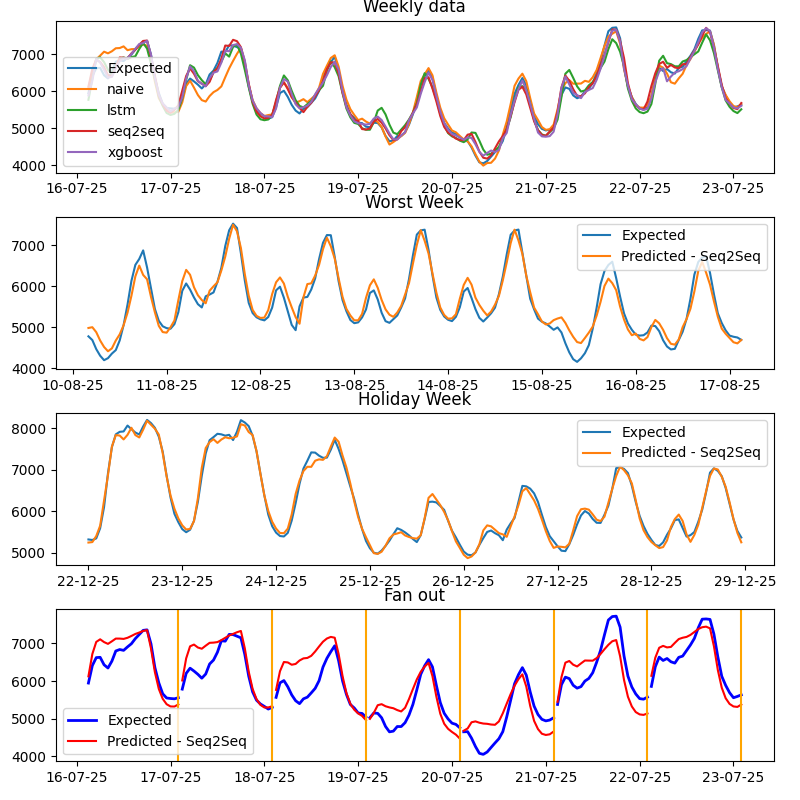
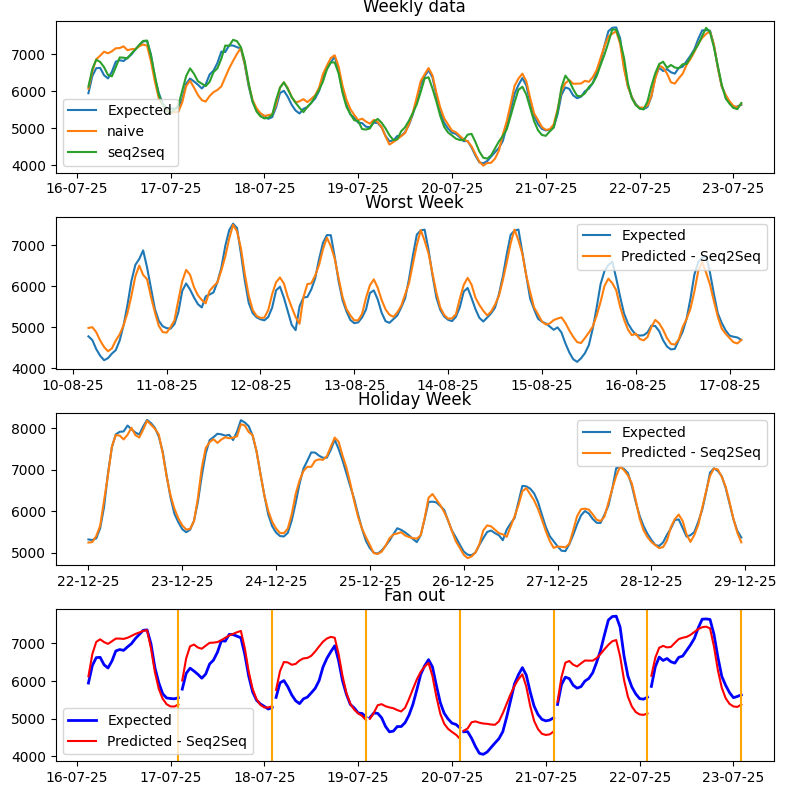
polish README

diff --git a/src/evaluate.py b/src/evaluate.py
@@ -214,11 +214,11 @@ def predict(configs):
         predict_dict['seq2seq']['dates'], 
         predict_dict['seq2seq']['y_test'], 
         predict_dict['seq2seq']['y_pred'], 
-        predict_dict['naive']['y_test'],
+        predict_dict['naive']['y_pred'],
         base_config['hyperparams']['forecast_horizon']
         )
 
-    y_preds = {model_name:model_dict['y_pred'] for model_name, model_dict in predict_dict.items()}
+    y_preds = {model_name:model_dict['y_pred'] for model_name, model_dict in predict_dict.items() if model_name not in ('lstm', 'xgboost')}
     plot_week_data(
         predict_dict['seq2seq']['dates'], 
         y_preds,

diff --git a/README.md b/README.md
@@ -1,6 +1,6 @@
 # Energy Demand Forecasting
 
-This project aims to predict next hour energy demand for a specific country, Romania. As models I used LSTM and a baselines naive seasonal forecasting model. The dataset was fetched from https://www.entsoe.eu/data/power-stats/ using a custom data_fetcher which grabbed hourly data from 2019 to 2025. The dataset is enhanced with meteo data for every hour, for the biggest city in Romania, Bucharest, which can be a good proxy for energy consumption based on the temperature conditions.
+This project performs a multi-step forecast of Romania's energy demand, predicting the next 24 hours of load. The primary model is a Seq2Seq network. The goal of the project was to put the LSTM architecture into practice. To get a fair comparison, I added several baselines: a standalone LSTM, an XGBoost regressor, and a naive seasonal model. The dataset was fetched from https://www.entsoe.eu/data/power-stats/ with a custom `data_fetcher` that pulls hourly data from 2019 to 2025. It is enhanced with hourly weather data for Bucharest, Romania's largest city, whose temperature is a good proxy for nationwide energy consumption.
 
 ### Table of Contents
 
@@ -15,4 +15,179 @@ This project aims to predict next hour energy demand for a specific country, Rom
 
 ### Introduction
 
-Using pytorch LSTM model 
+The task is a multi-step forecast of the next 24 hours of Romania's energy demand, trained on the 2019–2025 interval from ENTSO-E. The exploratory data analysis showed temperature to be a strong external predictor of consumption, so it was added as a feature. The sequence models (Seq2Seq and LSTM) use a lookback of 168h (one week) and a forecast horizon of 24h. To evaluate them fairly, I established baselines with a naive model and a tree model; the naive baseline uses a weekly seasonal lag (m = 168h).
+
+### Features
+
+Four model families are used: LSTM, Seq2Seq with teacher forcing, XGBoost, and a naive seasonal baseline. Each model is configured through its own YAML file (`lstm.yaml`, `seq2seq.yaml`, `xgboost.yaml`); change the hyperparameters there. Reproducible seeds are set to keep runs deterministic.
+
+For the sequence models, the focus of this project, I added early stopping, a cosine learning-rate schedule, and gradient clipping for training stability. Both models also produce `learning_curve` plots under the `outputs` directory, with the best saved checkpoint marked by a red line:
+
+![seq2seq](./outputs/learning_curve_seq2seq_24h.png)
+
+Evaluation runs across all trained models at once, producing comparison plots that are also saved under the `outputs` directory.
+
+Unit tests covering data processing, baseline model construction, and other small, testable functions live under `tests/`. They run on every push and pull request via the workflow in `.github/workflows`.
+
+The original power-statistics data had only two meaningful columns, `DateUTC` and `Value`. Guided by the EDA, `data_processing` derives the following features:
+
+
+| #   | Column  | Non-Null Count      | Dtype  
+|---------|--------|--------------|----------------|
+| 0 | Value  | 61277 non-null |     float64      | 
+| 1 | temperature_2m  | 61277 non-null |     float64      | 
+| 2 | hour_sin  | 61277 non-null |     float64      | 
+| 3 | hour_cos  | 61277 non-null |     float64      | 
+| 4 | day_sin  | 61277 non-null |     float64      | 
+| 5 | day_cos  | 61277 non-null |     float64      | 
+| 6 | month_sin  | 61277 non-null |     float64      | 
+| 7 | month_cos  | 61277 non-null |     float64      | 
+| 8 | is_weekend  | 61277 non-null |     int64      | 
+| 9 | is_holiday  | 61277 non-null |     int64      |
+
+
+
+### Project Structure
+
+The project is organized as follows:
+```
+.
+├── CLAUDE.md
+├── README.md
+├── config
+│   ├── base.yaml
+│   ├── lstm.yaml
+│   ├── seq2seq.yaml
+│   └── xgboost.yaml
+├── data
+│   ├── processed
+│   │   ├── RO_power_statistic.csv
+│   │   └── RO_temperature_statistic.csv
+│   ├── raw
+│   ├── xgboost_X_test.csv
+│   ├── xgboost_segments.joblib
+│   └── xgboost_y_test.csv
+├── models
+│   ├── lstm.pt
+│   ├── scaler.joblib
+│   ├── seq2seq.pt
+│   ├── target_scaler.joblib
+│   ├── test_data.joblib
+│   ├── xgboost.joblib
+│   └── xgboost_test_data.joblib
+├── notebooks
+│   └── 01_Exploratory_Data_Analysis.ipynb
+├── outputs
+│   ├── evaluation_overall.png
+│   ├── evaluation_overall_1h.png
+│   ├── evaluation_overall_24h.png
+│   ├── evaluation_overall_lstm.png
+│   ├── evaluation_weekly.png
+│   ├── evaluation_weekly_1h.png
+│   ├── evaluation_weekly_24h.png
+│   ├── evaluation_weekly_lstm.png
+│   ├── learning_curve_1h.png
+│   ├── learning_curve_lstm_24h.png
+│   └── learning_curve_seq2seq_24h.png
+├── requirements.txt
+├── src
+│   ├── __init__.py
+│   ├── baselines.py
+│   ├── data_fetcher.py
+│   ├── data_processing.py
+│   ├── evaluate.py
+│   ├── model.py
+│   ├── seq2seq.py
+│   ├── train.py
+│   └── utils.py
+└── tests
+    ├── __init__.py
+    ├── conftest.py
+    ├── test_baselines.py
+    ├── test_data_processing.py
+    ├── test_evaluate.py
+    └── test_utils.py
+
+```
+
+* `config` contains YAML files for configuring the models and data paths
+* `data` where the raw and processed data is stored
+* `models` where the trained models are stored
+* `notebooks` contains Jupyter Notebook for EDA
+* `src` Python source for data processing, training, and evaluation
+* `tests` unit tests for data processing, baselines, evaluation, and utilities
+* `requirements.txt` required packages for this project
+
+### Getting Started
+
+In order to get this up and running please do the following:
+
+#### Pre-requisites:
+
+* Python 3.10
+* pip
+
+1. Clone the repo
+    `git clone https://github.com/RaresPopa22/EnergyDemandForecasting`
+2. Create and activate a virtual environment (so `python` resolves to the project interpreter)
+    `python3 -m venv .venv && source .venv/bin/activate`
+3. Install Python packages
+    `pip install -r requirements.txt`
+4. Download the datasets
+    `python -m src.data_fetcher --type energy`
+    `python -m src.data_fetcher --type temp`
+
+### Usage
+
+You can either train the models yourself or use the saved models, then evaluate their performance with the scripts in the `src/` directory.
+
+#### Training the Models
+
+In order to train a model, run the `train.py` script with the desired configuration:
+
+* Train Seq2Seq with early stopping and teacher forcing:
+    `python -m src.train --config config/seq2seq.yaml`
+* Train LSTM with early stopping:
+    `python -m src.train --config config/lstm.yaml`
+* Train XGBoost:
+    `python -m src.train --config config/xgboost.yaml`
+
+#### Evaluating the models
+
+After training, you can evaluate and compare the models using the evaluate.py script:
+    `python -m src.evaluate --configs config/lstm.yaml config/seq2seq.yaml config/xgboost.yaml`
+
+This prints regression metrics for each model and generates two plots for the Seq2Seq model: an overall test-set plot (with residual, calibration, and rolling-MAE panels) and a weekly plot (with weekly data, worst week, holiday week, and fan-out panels).
+
+
+### Configuration
+
+This project uses YAML files for configuration, making it easy to manage model parameters and data paths.
+
+* `base.yaml` contains the base configuration, including data paths
+* `seq2seq.yaml`, `lstm.yaml` and `xgboost.yaml` contain model-specific parameters, merged on top of `base.yaml` at load time
+
+### Model Performance
+
+To get an honest estimate of performance, 15% of the data was held out as a test set and never seen during training, so the metrics below reflect behavior on unseen data.
+
+The table below summarizes the performance of the trained models:
+
+| Model   | RMSE error (MWh)  | MAE(MWh)      | MAPE(%) | R2 | Skill score for 1h | Skill score for 24h |
+|---------|--------|--------------|----------------|------|-------------------|------------------|
+|  seq2seq  |  387.949 |    288.804   | 5.169 | 0.842 | 0.511 | 0.386 |
+|  naive  |  584.055 |    390.208   | 6.931 | 0.642 | -0.929 | 0.063 |
+|  lstm  |  410.433 |    290.593   | 5.275 | 0.823 | 0.300 | 0.400 |
+|  xgboost  |  351.216 |    233.067   | 4.295 | 0.870 | 0.372 | 0.425 |
+
+The skill score is defined as `1 − (model RMSE / persistence RMSE)`, where the persistence baseline simply predicts the value from one step earlier (1h) or 24 hours earlier (24h). A score of 1.0 is perfect, 0 ties the persistence baseline, and a negative value is worse than it, which is why the naive model scores negatively at 1h, where naive 1-hour persistence is very hard to beat.
+
+By skill score, Seq2Seq has a slight edge at the 1h horizon, but at the full 24h horizon XGBoost wins. XGBoost is also the clear winner on RMSE, MAE, and MAPE. Both sequence models comfortably beat the naive baseline.
+
+For the Seq2Seq model, the residuals show no obvious pattern, which suggests the model captured the underlying structure of the data. The calibration panel shows a tendency to overestimate. The rolling-MAE panel shows the model staying below the naive seasonal baseline.
+
+![overall](./outputs/evaluation_overall_24h.png)
+
+In the weekly plot, the fan-out panel is the real story: error grows with the forecast horizon, small in the early steps, widest mid-horizon, then recovering somewhat toward the end.
+
+![weekly](./outputs/evaluation_weekly_24h.png)
